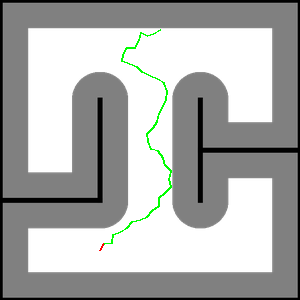
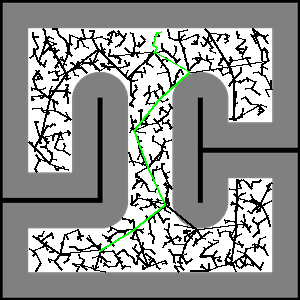
precise last steps

Changed region(s): [[0.09, 0.09, 0.93, 0.93]]

diff --git a/finalproject.py b/finalproject.py
@@ -69,6 +69,47 @@ class Run:
         self.pf.move_by(self.odometry.x - old_x, self.odometry.y - old_y, self.odometry.theta - old_theta)
         # print("[{},{},{}]".format(self.odometry.x, self.odometry.y, math.degrees(self.odometry.theta)))
 
+    def go_to_goal_precise(self, goal_x, goal_y):
+        old_x = self.odometry.x
+        old_y = self.odometry.y
+        old_theta = self.odometry.theta
+        base_speed = 10
+        i = 0
+        while math.sqrt(math.pow(goal_x - self.odometry.x, 2) + math.pow(goal_y - self.odometry.y, 2)) > 0.01:
+            state = self.create.update()
+            i += 1
+            if state is not None:
+                self.odometry.update(state.leftEncoderCounts, state.rightEncoderCounts)
+                goal_theta = math.atan2(goal_y - self.odometry.y, goal_x - self.odometry.x)
+                theta = math.atan2(math.sin(self.odometry.theta), math.cos(self.odometry.theta))
+                output_theta = self.pidTheta.update(self.odometry.theta, goal_theta, self.time.time())
+                self.create.drive_direct(int(base_speed+output_theta), int(base_speed-output_theta))
+                ''' LOCALIZE '''
+                if i%30==0:
+                    self.pf.move_by(self.odometry.x - old_x, self.odometry.y - old_y, self.odometry.theta - old_theta)
+                    distance = self.sonar.get_distance()
+                    self.pf.measure(distance, 0)
+                    self.visualize()
+                    est = self.pf.get_estimate()
+                    print("oooooooodom: [", format(self.odometry.x, ".4f"),format(self.odometry.y, ".4f"),"]")
+                    print("PF estimate: [", format(est[0], ".4f"),format(est[1], ".4f"),"]")
+                    updated = False
+                    # if estimated position is "close enough" to odometry (x,y)
+                    # odometry (x,y) get updated to match PF estimate
+                        # close enough = 5cm apart
+                    if abs(est[0]-self.odometry.x)<0.01:
+                        self.odometry.x = est[0]
+                        updated = True
+                    if abs(est[1]-self.odometry.y)<0.01:
+                        self.odometry.y = est[1]
+                        updated = True
+                    if updated is True:
+                        print("UPDATE ", self.odometry.x, self.odometry.y)
+                    old_x = self.odometry.x
+                    old_y = self.odometry.y
+                    old_theta = self.odometry.theta
+
+
     def go_to_angle(self, goal_theta): # turn to angle in place, moves pf
         old_x = self.odometry.x
         old_y = self.odometry.y
@@ -121,7 +162,7 @@ class Run:
 
         self.time.sleep(4)
 
-        #self.arm.close_gripper()
+        self.arm.close_gripper()
 
         # request sensors
         self.create.start_stream([
@@ -140,9 +181,9 @@ class Run:
         '''
         # build rrt
         x_init = self.create.sim_get_position()
-        print("bot initial pos: " + str(x_init))
+        print("bot initial pos: [",format(x_init[0], ".4f"),format(x_init[1], ".4f"),"]")
         x_mapInit = [x_init[0]*100, 300 - x_init[1]*100]
-        self.rrt.build(x_mapInit, 3000, 8)
+        self.rrt.build(x_mapInit, 3000, 40)
         # given arm position & dimensions
         L0 = 0.31
         L1 = 0.4
@@ -160,12 +201,17 @@ class Run:
             x_goal[0] = 3-d2wall
         elif armPos[1] > 3:
             x_goal[1] = 3-d2wall
-        x_goal = [x_goal[0]*100, 300-x_goal[1]*100]
-        x_mapGoal = self.rrt.nearest_neighbor(x_goal)
+        x_goalpx = [x_goal[0]*100, 300-x_goal[1]*100] # actual desired end point
+        x_mapGoal = self.rrt.nearest_neighbor(x_goalpx)
         path = self.rrt.shortest_path(x_mapGoal)
+        for v in self.rrt.T:
+            for u in v.neighbors:
+                self.map.draw_line((v.state[0], v.state[1]), (u.state[0], u.state[1]), (0,0,0))
+
         for idx in range(0, len(path)-1):
             self.map.draw_line((path[idx].state[0], path[idx].state[1]), (path[idx+1].state[0], path[idx+1].state[1]), (0,255,0))
         self.map.save("fp_rrt.png")
+        # print("path steps == " + str(len(path)))
 
         '''
         ' 2 - FOLLOW PATH
@@ -186,13 +232,13 @@ class Run:
             '''
             ' 2.5 - LOCALIZE
             '''
-            if it%5==0 :  # update PF every 5 pathfollows
-                print("@ [{},{}]".format(self.odometry.x, self.odometry.y))
+            if it%3==0 :  # update PF every 3 pathfollows
+                print("oooooooodom: [", format(self.odometry.x, ".4f"),format(self.odometry.y, ".4f"),"]")
                 distance = self.sonar.get_distance()
                 self.pf.measure(distance, 0)
                 self.visualize()
                 est = self.pf.get_estimate()
-                print("PF estimate: ", est[0], est[1])
+                print("PF estimate: [", format(est[0], ".4f"),format(est[1], ".4f"),"]")
                 updated = False
                 # if estimated position is "close enough" to odometry (x,y)
                 # odometry (x,y) get updated to match PF estimate
@@ -204,7 +250,14 @@ class Run:
                     self.odometry.y = est[1]
                     updated = True
                 if updated is True:
-                    print("UPDATE ", self.odometry.x, self.odometry.y)
+                    print("PF UPDATE ODOM -", format(self.odometry.x, ".4f"),format(self.odometry.y, ".4f"))
+
+
+        goal_x = x_goal[0]
+        goal_y = x_goal[1]
+        print(x_goal)
+        self.go_to_goal_precise(goal_x, goal_y)
+        print("odometry loc = (",format(self.odometry.x, ".4f"),format(self.odometry.y, ".4f"),")")
 
         self.create.drive_direct(0, 0)
         self.time.sleep(10)
